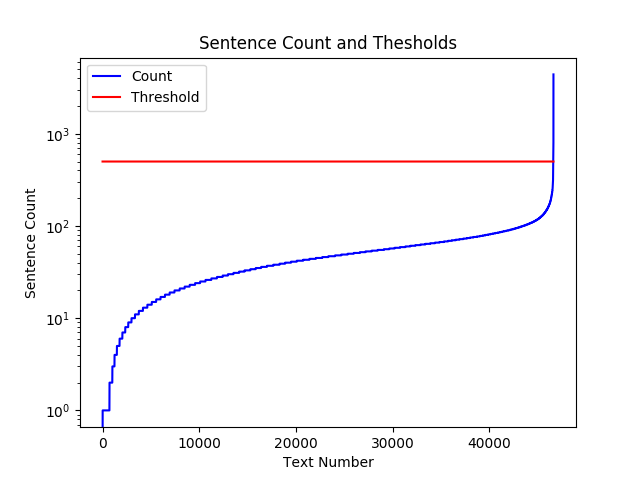
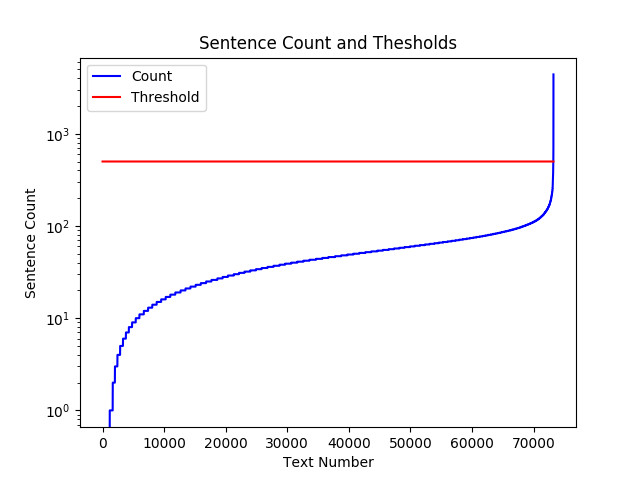
Updated data

diff --git a/report/data.tex b/report/data.tex
@@ -99,14 +99,17 @@ in any of the other data sets.
 
 \end{itemize}
 
-
-The training set (B), consists of a total of 46620 texts written in the same
-class , split over the 3.500 authors, from different schools. Each authors has
-written in average 13 texts, with the standard deviation being 4.2. The texts
-vary a lot in both structure and length, spanning from poems to essays. It is
-for this reason that this sets character count has a standard deviation of 5261
-even though the average character count of 5722. The full statistics of the
-training set (B) can be seen in the appendix, section \ref{sec:B_stats}.
+The training set (B), consists of a total of 73.238 texts written in the same
+class , split over the 5.500 authors, from different schools. Each authors has
+written in average 13 texts, with the standard deviation being 4.2. We initially
+removed the first 200 characters of each text, as the beginning of each text
+contains a lot of authorship identifying information, such as name, school, and
+specifics class. The removal of these characters also make sure that no garbage
+texts are included. The texts vary a lot in both structure and length, spanning
+from poems to essays. It is for this reason that this sets character count has
+a standard deviation of 4904 even though the average character count of 5549.
+The full statistics of the training set (B) can be seen in the appendix, section
+\ref{sec:B_stats}.
 
 Due this to this disparity in terms of the contents of the data, some
 constraints had to be applied to the data. The reason for this is ,in most
@@ -116,34 +119,31 @@ simply just a computational impossibility such as a single text consuming all
 memory causing our models to crash. Another purpose of these constraints is to
 make the data-set generalize better by removing the outliers.
 
-We initially removed the first 200 characters of each text, as the beginning
-of each text contains a lot of authorship identifying information, such as
-name, school, and specifics class. The removal of these characters also make
-sure that no garbage texts are included. As can be seen in the statistics in
-section \ref{sec:B_stats}, the text containing the smallest text only contains
-2 characters, and does obviously not contain any valuable information. After
-the removal of these 200 characters, we also remove texts that have below 200
-characters left after the removal, as they don't provide enough information
-about that specific author. The application of these two constraints, resulted
-in 1127 of the 46620 texts being removed. After which we applied a upper
-constraint, in terms of the total number of characters. The reason for this,
-was a mentioned earlier, that there are some texts eating up all the available
-memory, such as the largest text in (B), which consists of 685.427 characters.
-We found that limiting the number of characters to 30.000 gave good results, by
-removing the crash-inducing texts, without affecting the overall data-quality
-too much, as this only removed 72 texts from (B).
+As can be seen in the statistics in section \ref{sec:B_stats}, the text
+containing the smallest text only contains 2 characters, and does obviously not
+contain any valuable information. After the removal of these 200 characters, we
+also remove texts that have below 200 characters left after the removal, as they
+don't provide enough information about that specific author. The application
+of these two constraints, resulted in 1.743 of the 73.238 texts being removed.
+After which we applied a upper constraint, in terms of the total number of
+characters. The reason for this, was a mentioned earlier, that there are some
+texts eating up all the available memory, such as the largest text in (B), which
+consists of 682.346 characters. We found that limiting the number of characters
+to 30.000 gave good results, by removing the crash-inducing texts, without
+affecting the overall data-quality too much, as this only removed 118 texts from
+(B).
 
 Since we also perform some sentence level networks as well, we also chose to
 limit the max number of sentences, for the same reason as with the characters.
-The text with the largest amount of sentences, contains 4404 sentences. With
-an average sentence count of 51 and a standard deviation of 41, this text is
+The text with the largest amount of sentences, contains 4401 sentences. With
+an average sentence count of 49 and a standard deviation of 40, this text is
 obviously an outlier, and doesn't generalize the data set very well. A such we
-impose a upper limit of 500 sentences per text, which removes another 14 texts
+impose a upper limit of 500 sentences per text, which removes another 25 texts
 from (B).
 
 The last constraint regards the unique characters in each text. Look at the
 stats we can see that there is a text containing 219 unique characters, greatly
-exceeding the average of 59. A unique character count like this, implies that a
+exceeding the average of 55. A unique character count like this, implies that a
 non-danish alphabet might have been used, and for that reason texts like these
 don't add to the generalization we strive towards. This is combatted creating a
 list of characters based on the data used for training, each character in this
@@ -158,10 +158,10 @@ the character frequency threshold, the overall of frequency of the specific
 characters drops dramatically.
 
 After applying all of the constraints, and taking into account
-overlap between them, 1202 texts were removed from the total 46620 in (B),
+overlap between them, 1.864 texts were removed from the total 73.238 in (B),
 which is a negligible amount compared to the computational and generalization
 advantages it includes.
-In the end this leaves set (B) with 45218 texts.
+In the end this leaves set (B) with 71374 texts.
 
 \begin{figure}[htb]
 \begin{minipage}{.5\linewidth}
@@ -178,7 +178,6 @@ In the end this leaves set (B) with 45218 texts.
 \caption{The different levels of thresholding applied to the data before used.}
 \label{fig:character_frequencies}
 \end{figure}
-
 
 
 All of the neural networks we train are Siamese Neural Networks. They all
